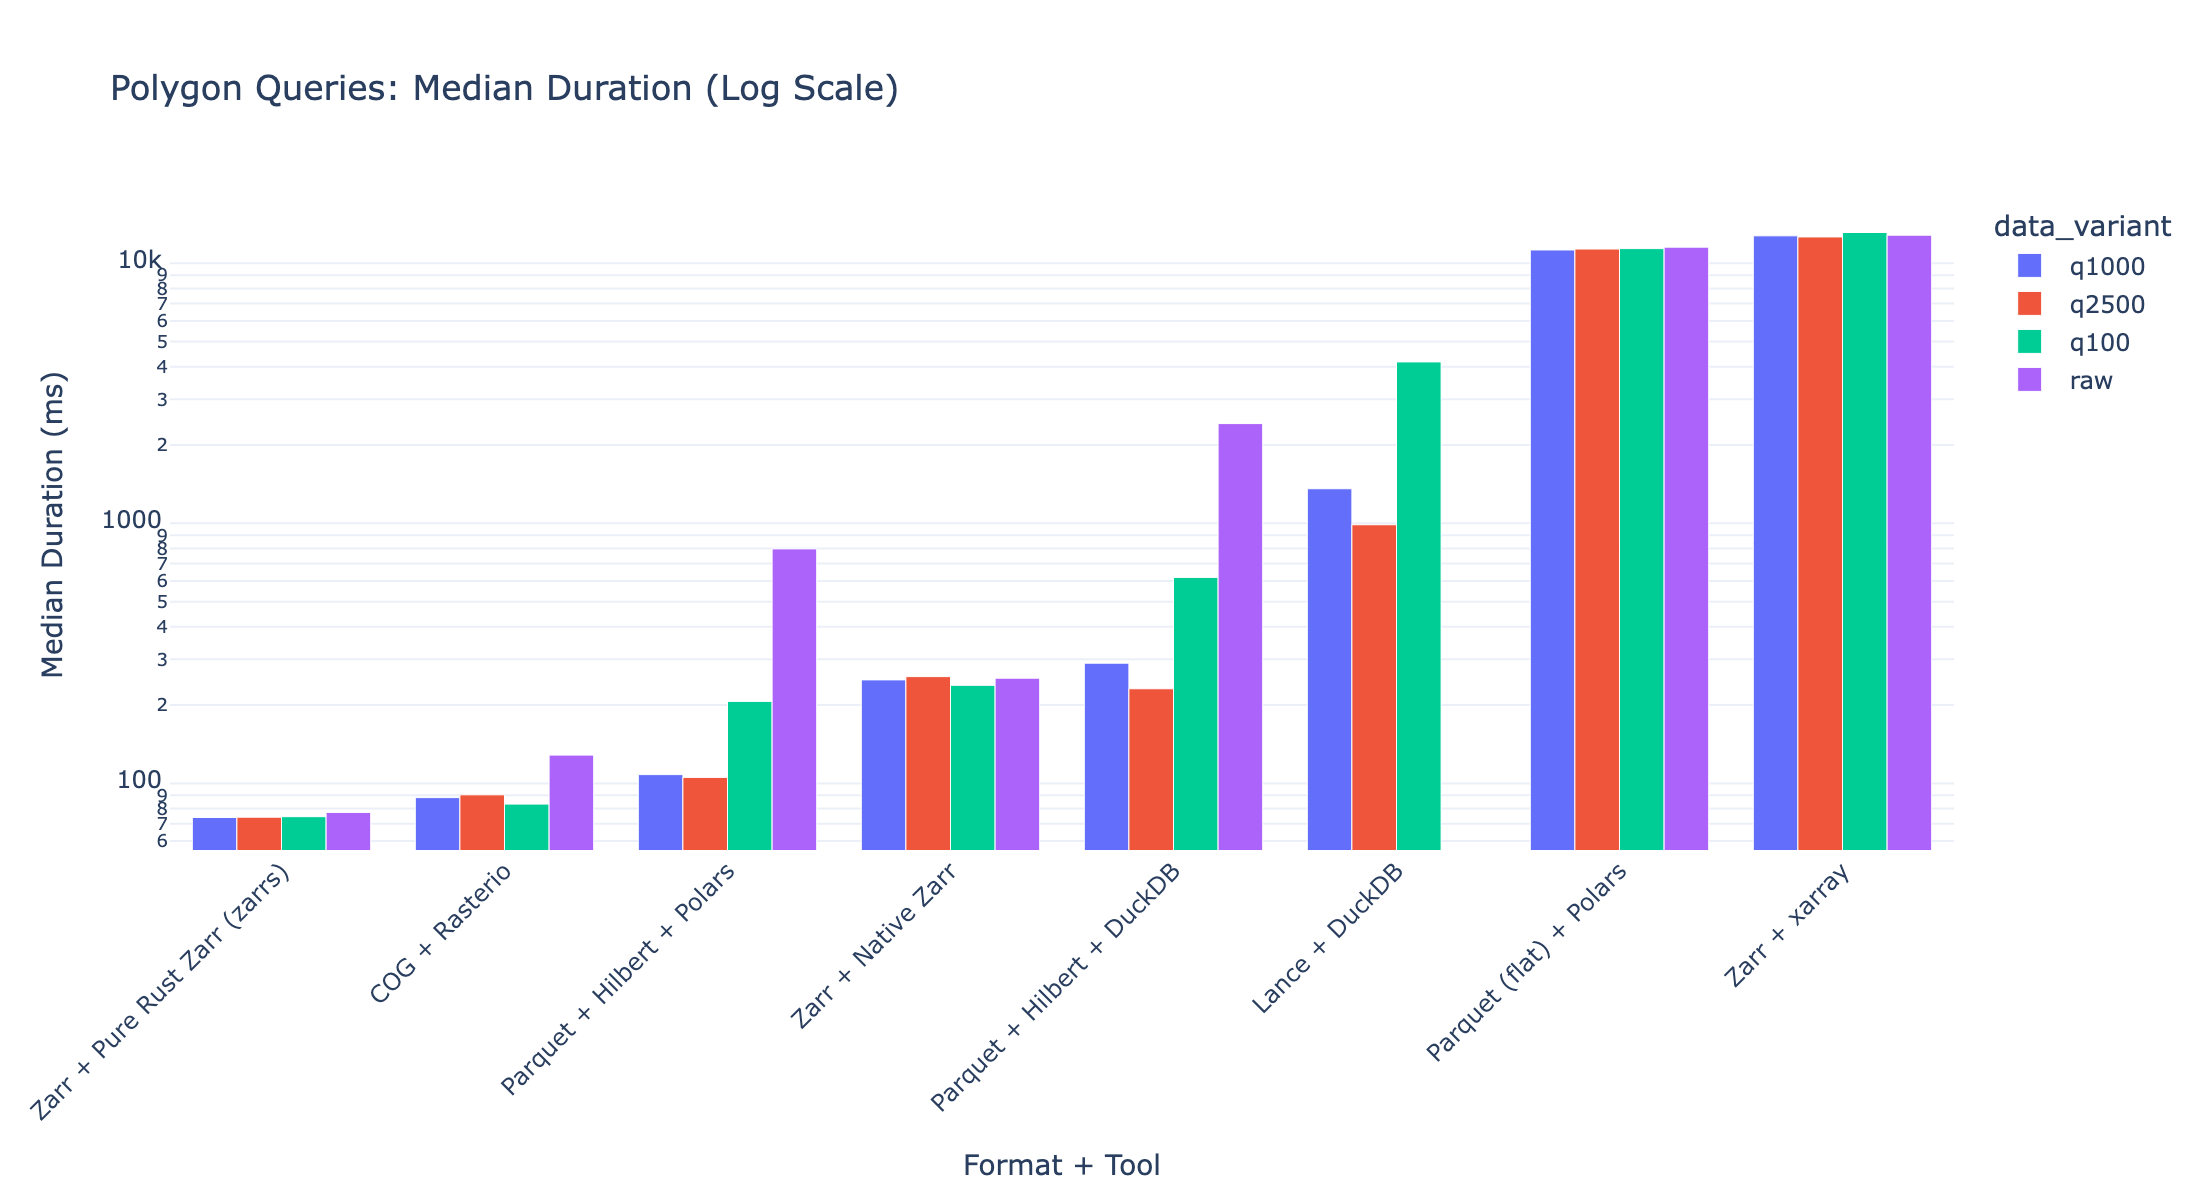
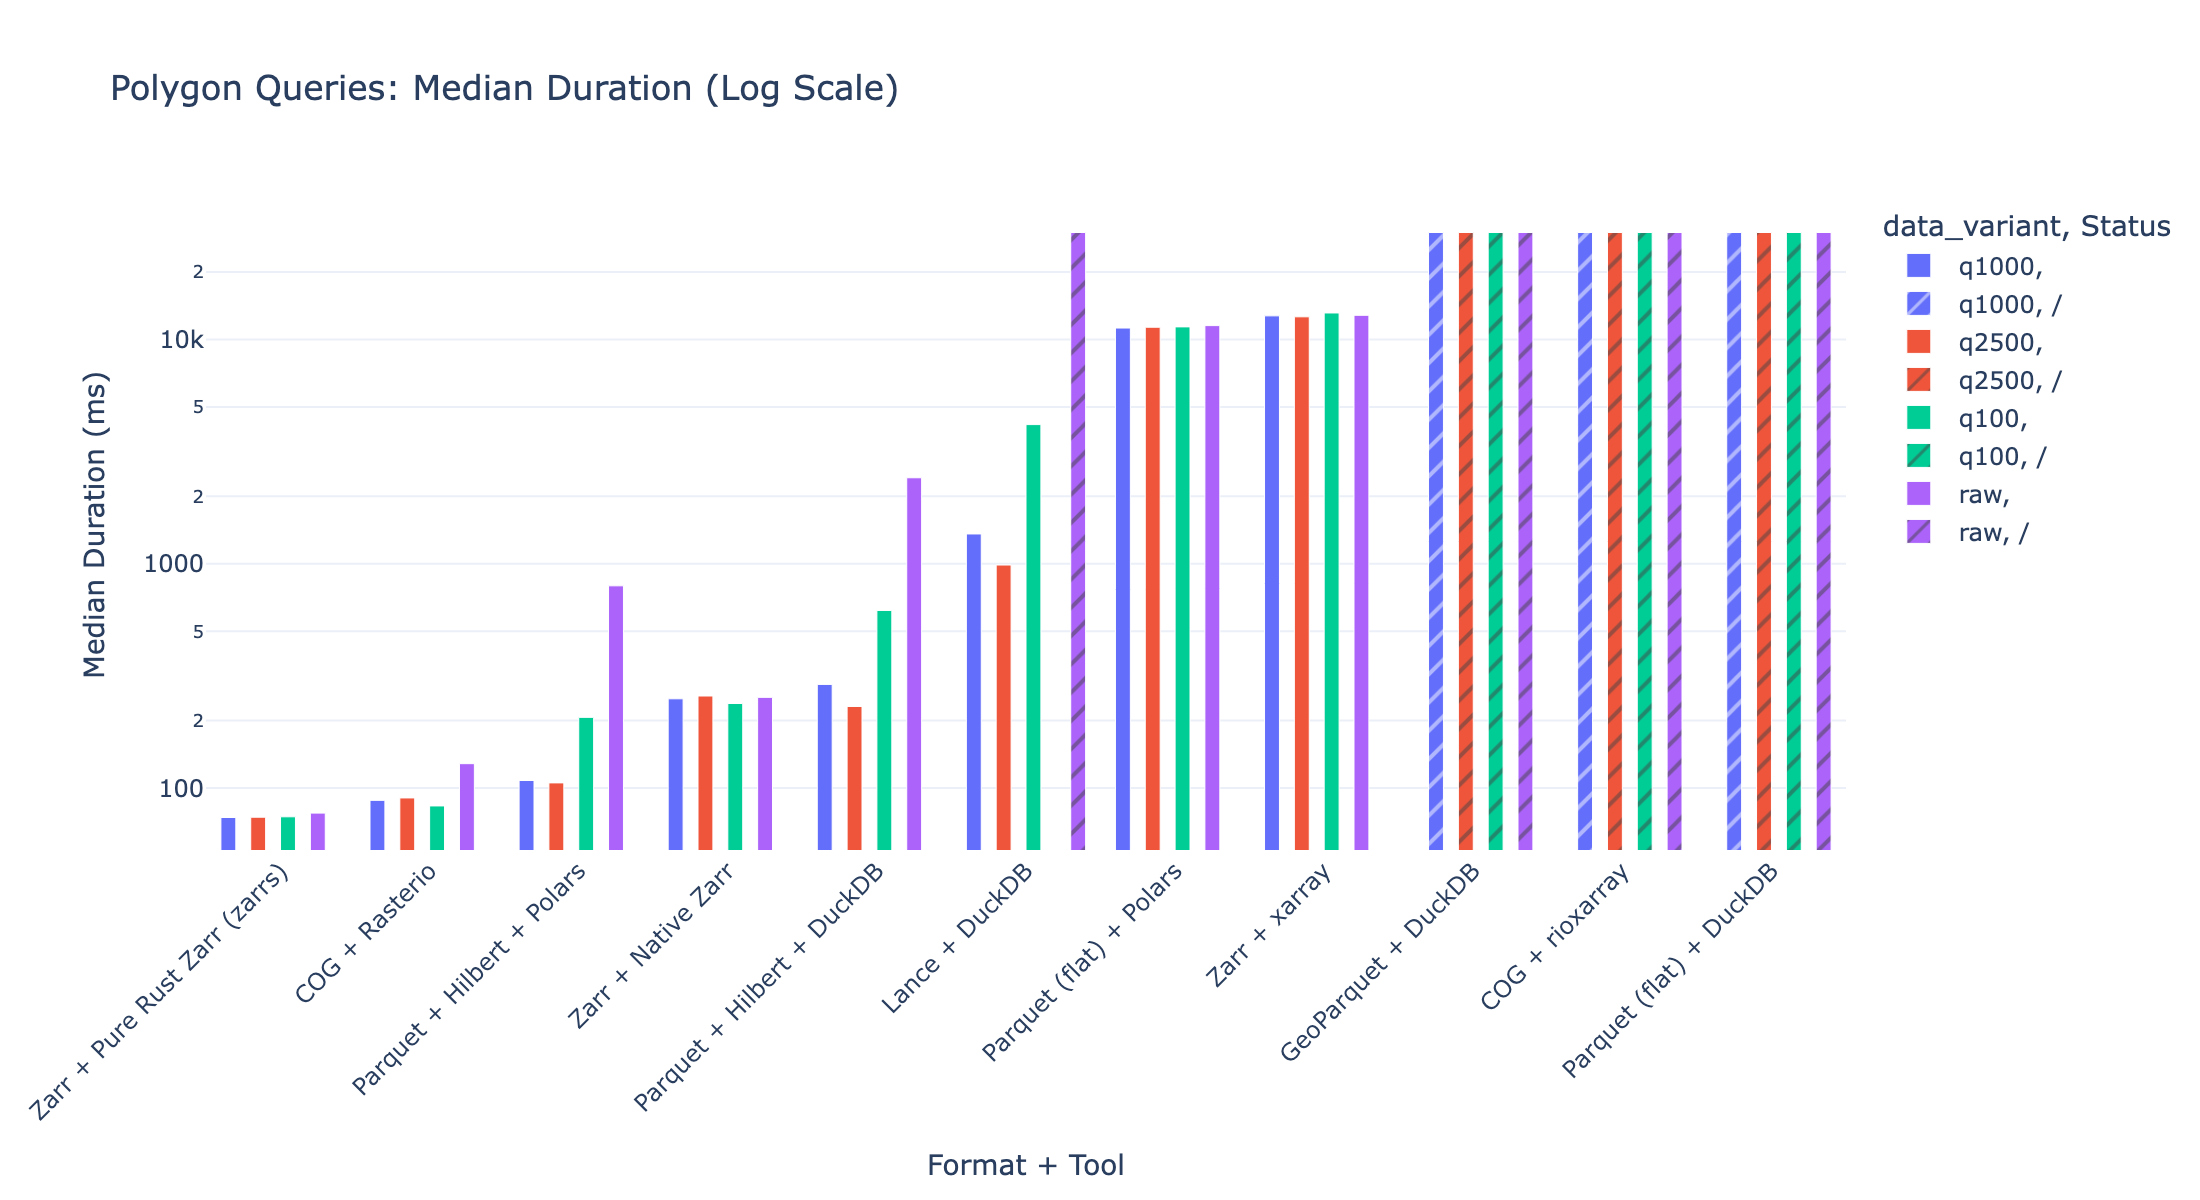
feat: visually represent timeouts with hatched patterns in latency bar charts

diff --git a/dem-format-benchmark/scripts/visualize.py b/dem-format-benchmark/scripts/visualize.py
@@ -76,29 +76,50 @@ def figure_storage_size() -> None:
     print(f"Saved {out}")
 
 def bar_chart_by_query_type(df: pd.DataFrame, query_type: str, filename: str) -> None:
-    subset = df[(df["query_type"] == query_type) & (df["status"] == "success")]
+    subset = df[(df["query_type"] == query_type)].copy()
     if subset.empty:
         return
 
+    # Treat timeouts as 30,000ms for visualization
+    subset.loc[subset["status"] == "timeout", "duration_ms"] = 30000.0
+
+    # We only want to plot successes and timeouts
+    subset = subset[subset["status"].isin(["success", "timeout"])]
+    if subset.empty:
+        return
+
+    # Group and aggregate
     agg = subset.groupby(["format_label", "tool_label", "data_variant"]).agg(
         median_duration_ms=("duration_ms", "median"),
-        median_final_rss_mb=("final_rss_mb", "median"),
+        # If any run was a timeout in the group, we can mark the group as a timeout
+        is_timeout=("status", lambda x: "timeout" if "timeout" in x.values else "success")
     ).reset_index()
 
     agg["combo"] = agg["format_label"] + " + " + agg["tool_label"]
     agg = agg.sort_values(by="median_duration_ms")
+    
+    # Create pattern shape column
+    agg["pattern"] = agg["is_timeout"].apply(lambda x: "/" if x == "timeout" else "")
 
     fig = px.bar(
         agg,
         x="combo",
         y="median_duration_ms",
         color="data_variant",
+        pattern_shape="pattern",
         barmode="group",
         title=f"{QUERY_LABELS.get(query_type, query_type)} Queries: Median Duration (Log Scale)",
-        labels={"median_duration_ms": "Median Duration (ms)", "combo": "Format + Tool"},
+        labels={"median_duration_ms": "Median Duration (ms)", "combo": "Format + Tool", "pattern": "Status"},
         log_y=True,
     )
-    fig.update_layout(template="plotly_white", height=600, width=1100, xaxis_tickangle=-45)
+    
+    # Update legend to make it cleaner
+    fig.update_layout(
+        template="plotly_white", 
+        height=600, 
+        width=1100, 
+        xaxis_tickangle=-45,
+    )
     
     PLOTS_DIR.mkdir(parents=True, exist_ok=True)
     out = PLOTS_DIR / filename
